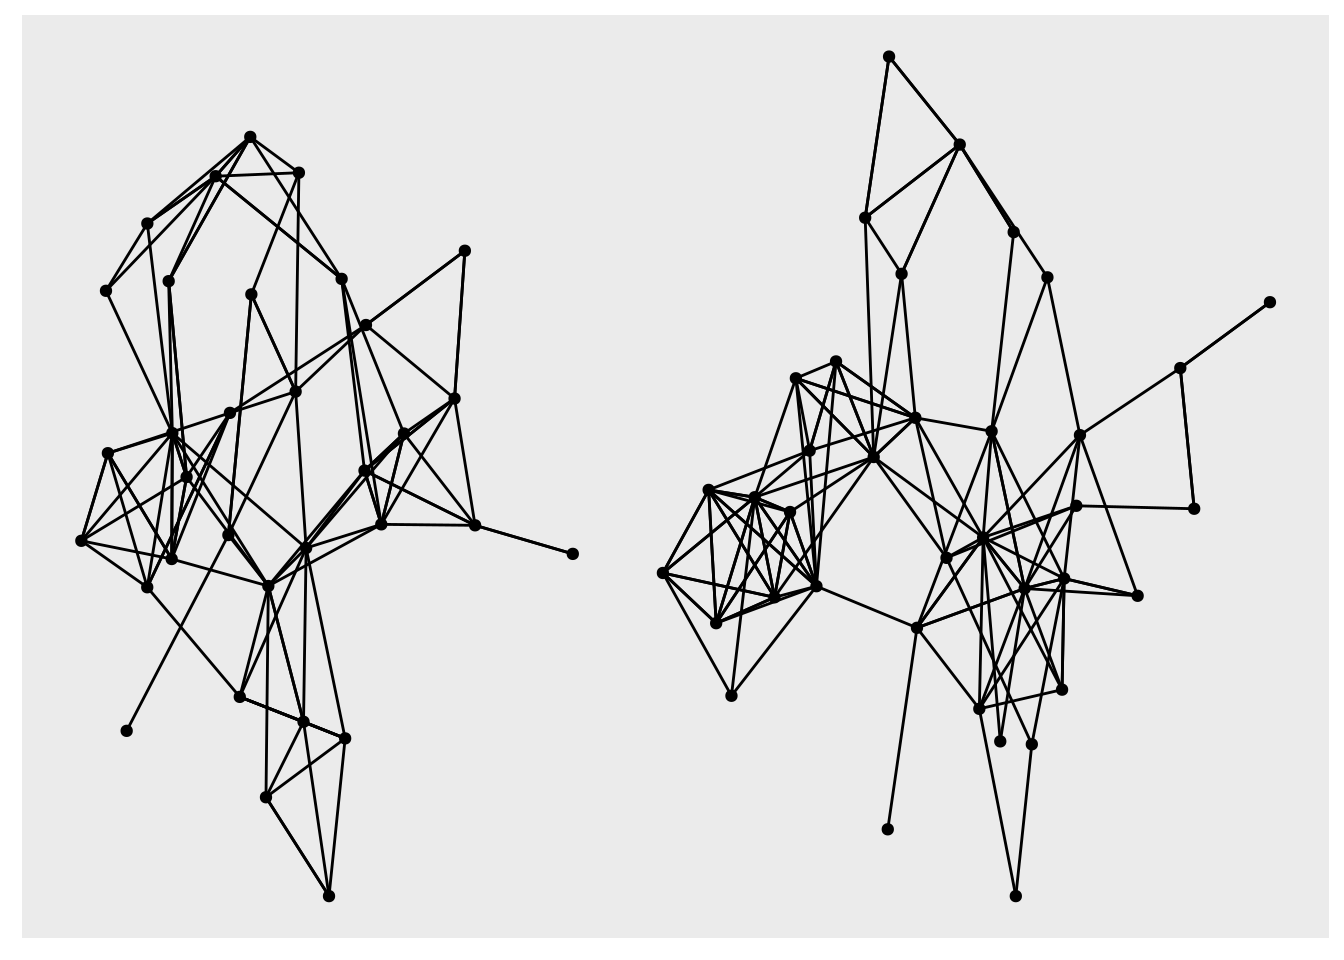
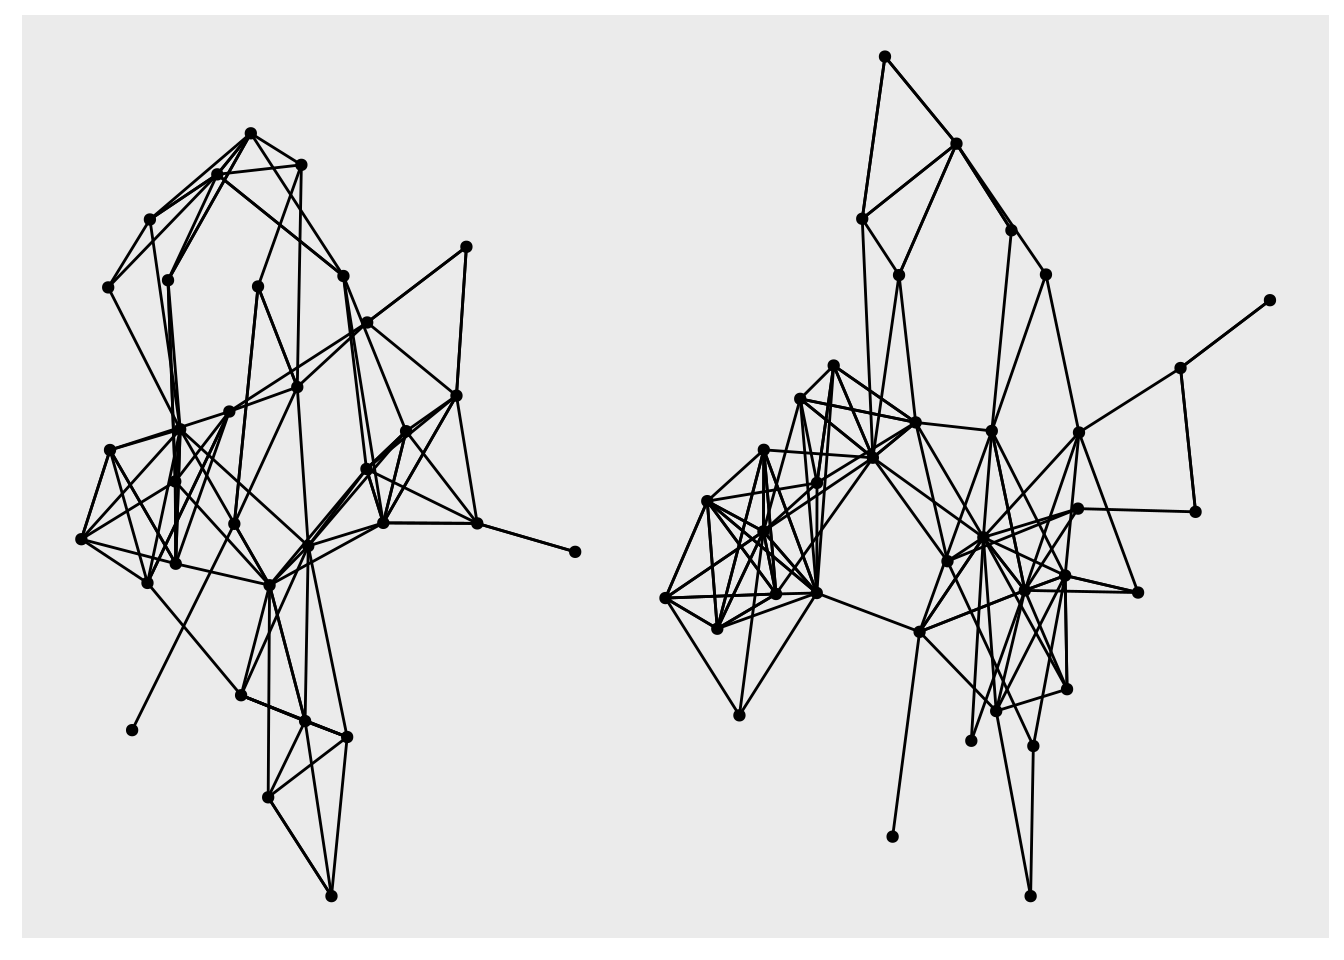
prose updates

diff --git a/public/2020/03/08/2020-03-08-intro-to-networks/index.html b/public/2020/03/08/2020-03-08-intro-to-networks/index.html
@@ -176,14 +176,14 @@ This an awesome function, but the functionality and customization is a bit limit
 ## # A directed acyclic simple graph with 1 component
 ## #
 ## # Edge Data: 6 x 3 (active)
-##    from    to  alpha
-##   &lt;int&gt; &lt;int&gt;  &lt;dbl&gt;
-## 1     1     2 0.483 
-## 2     1     3 0.859 
-## 3     2     4 0.424 
-## 4     3     4 0.0814
-## 5     4     5 0.430 
-## 6     5     6 0.348 
+##    from    to alpha
+##   &lt;int&gt; &lt;int&gt; &lt;dbl&gt;
+## 1     1     2 0.137
+## 2     1     3 0.228
+## 3     2     4 0.188
+## 4     3     4 0.475
+## 5     4     5 0.778
+## 6     5     6 0.952
 ## #
 ## # Node Data: 6 x 2
 ##   name  id   
@@ -252,9 +252,9 @@ Great we created a simple edge list, made it into a tidy graph object, manipulat
 ## # … with 240 more rows</code></pre>
 <p>Let’s plot it and specify aesthetics based off the metrics we calculated.</p>
 <pre class="r"><code>ggraph(hs_manipulated, layout = &#39;stress&#39;) +
+  geom_edge_link (aes(alpha = weight)) +
   geom_node_point(aes(color = walktrap,
-                      size = central_alpha)) +
-  geom_edge_link (aes(alpha = weight))</code></pre>
+                      size = central_alpha)) </code></pre>
 <p><img src="../../../../post/2020-03-08-intro-to-networks_files/figure-html/unnamed-chunk-14-1.png" width="672" /></p>
 <p>Now lets play around a bit with some of the functionality of ggraph. This package is made to behave a lot like ggplot2. However, one key difference is the layout argument. These tell ggraph what algorithm to use when laying out the nodes. You can really go as deep as you want down this rabbit hole if you want to start playing around the with the parameters of the layout look at the <a href="https://cran.r-project.org/web/packages/particles/vignettes/intro.html">particles package</a>. Or, you can just do what I do and choose random ones until you get one you like.</p>
 <pre class="r"><code>a &lt;- ggraph(hs_manipulated, layout = &quot;kk&quot;) +

diff --git a/content/post/2020-03-08-intro-to-networks.html b/content/post/2020-03-08-intro-to-networks.html
@@ -86,14 +86,14 @@ This an awesome function, but the functionality and customization is a bit limit
 ## # A directed acyclic simple graph with 1 component
 ## #
 ## # Edge Data: 6 x 3 (active)
-##    from    to  alpha
-##   &lt;int&gt; &lt;int&gt;  &lt;dbl&gt;
-## 1     1     2 0.483 
-## 2     1     3 0.859 
-## 3     2     4 0.424 
-## 4     3     4 0.0814
-## 5     4     5 0.430 
-## 6     5     6 0.348 
+##    from    to alpha
+##   &lt;int&gt; &lt;int&gt; &lt;dbl&gt;
+## 1     1     2 0.137
+## 2     1     3 0.228
+## 3     2     4 0.188
+## 4     3     4 0.475
+## 5     4     5 0.778
+## 6     5     6 0.952
 ## #
 ## # Node Data: 6 x 2
 ##   name  id   
@@ -162,9 +162,9 @@ Great we created a simple edge list, made it into a tidy graph object, manipulat
 ## # … with 240 more rows</code></pre>
 <p>Let’s plot it and specify aesthetics based off the metrics we calculated.</p>
 <pre class="r"><code>ggraph(hs_manipulated, layout = &#39;stress&#39;) +
+  geom_edge_link (aes(alpha = weight)) +
   geom_node_point(aes(color = walktrap,
-                      size = central_alpha)) +
-  geom_edge_link (aes(alpha = weight))</code></pre>
+                      size = central_alpha)) </code></pre>
 <p><img src="/post/2020-03-08-intro-to-networks_files/figure-html/unnamed-chunk-14-1.png" width="672" /></p>
 <p>Now lets play around a bit with some of the functionality of ggraph. This package is made to behave a lot like ggplot2. However, one key difference is the layout argument. These tell ggraph what algorithm to use when laying out the nodes. You can really go as deep as you want down this rabbit hole if you want to start playing around the with the parameters of the layout look at the <a href="https://cran.r-project.org/web/packages/particles/vignettes/intro.html">particles package</a>. Or, you can just do what I do and choose random ones until you get one you like.</p>
 <pre class="r"><code>a &lt;- ggraph(hs_manipulated, layout = &quot;kk&quot;) +
